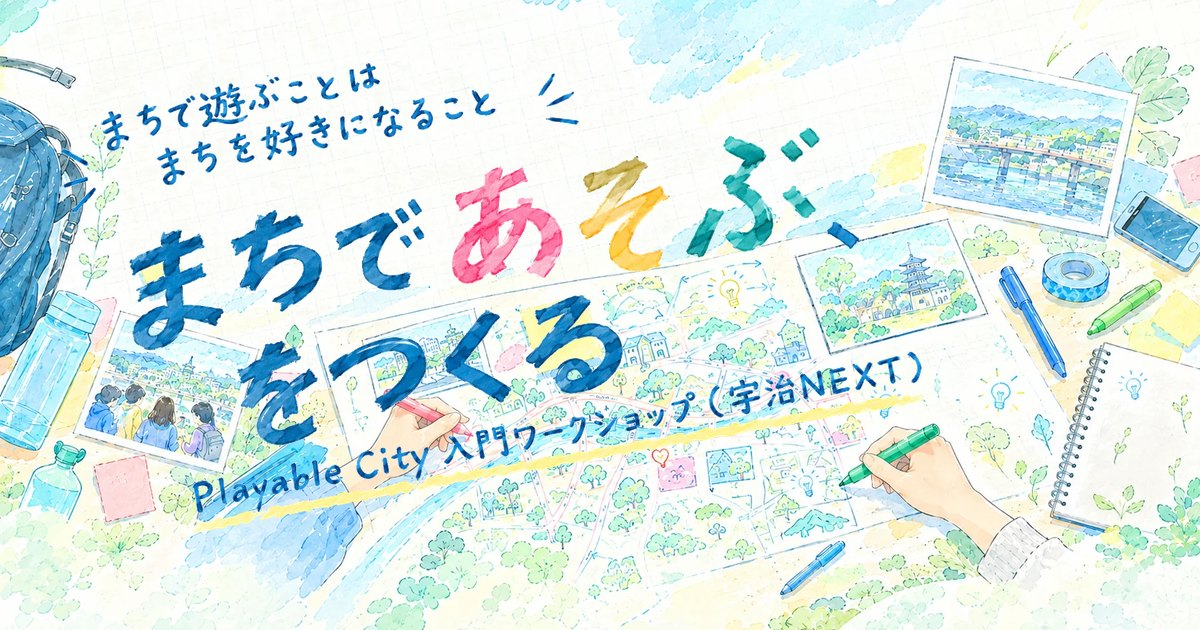
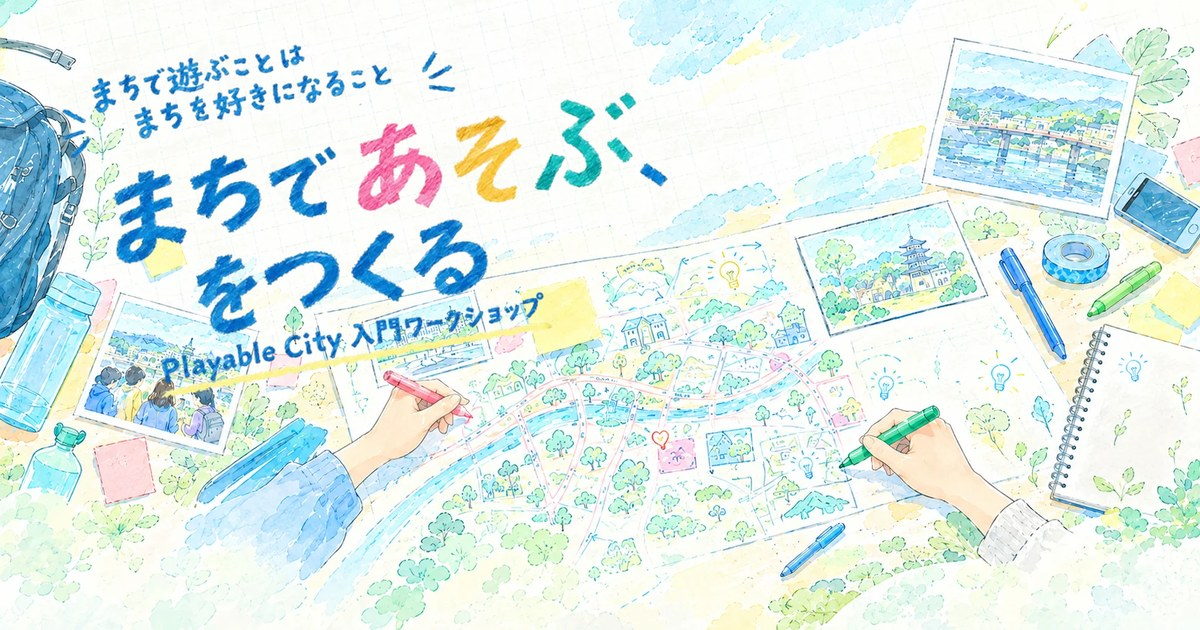
Rebuild the share image and use clock times
- SNSやリンク共有で出る画像（ogp.jpg）を、いまサイトで使っているイラストと
  タイトル画像から作り直した。古い画像はタイトルの「で」に濁点が2つ付いていた
- 当日の進め方の時間を、経過時間から実際の時刻に変更
  （10:00–10:30 / 10:30–10:50 / 10:50–11:25 / 11:25–12:00）

diff --git a/index.html b/index.html
@@ -823,7 +823,7 @@ footer a{color:#fff;text-decoration:none;border-bottom:1px solid rgba(255,255,25
             <h3>知る</h3>
             <p>宇治のまちの話を聞く<br>Playable City の事例を知る</p>
           </div>
-          <span class="ftime">0:00 – 0:30</span>
+          <span class="ftime">10:00 – 10:30</span>
         </a>
       </div>
       <div class="fstep s2 rv">
@@ -833,7 +833,7 @@ footer a{color:#fff;text-decoration:none;border-bottom:1px solid rgba(255,255,25
             <h3>体験する</h3>
             <p>まちを「遊び」の<span class="rb">視点<span class="rt" aria-hidden="true">してん</span></span>から見るオリジナルゲームで遊ぶ</p>
           </div>
-          <span class="ftime">0:30 – 0:50</span>
+          <span class="ftime">10:30 – 10:50</span>
         </a>
       </div>
       <div class="fstep s3 rv">
@@ -843,7 +843,7 @@ footer a{color:#fff;text-decoration:none;border-bottom:1px solid rgba(255,255,25
             <h3>つくる</h3>
             <p>「遊びたい」をアイデアシートにまとめる</p>
           </div>
-          <span class="ftime">0:50 – 1:25</span>
+          <span class="ftime">10:50 – 11:25</span>
         </a>
       </div>
       <div class="fstep s4 rv">
@@ -853,7 +853,7 @@ footer a{color:#fff;text-decoration:none;border-bottom:1px solid rgba(255,255,25
             <h3>共有する</h3>
             <p>発表して、みんなと共有<br>アンケート・まとめ</p>
           </div>
-          <span class="ftime">1:25 – 2:00</span>
+          <span class="ftime">11:25 – 12:00</span>
         </div>
       </div>
     </div>
